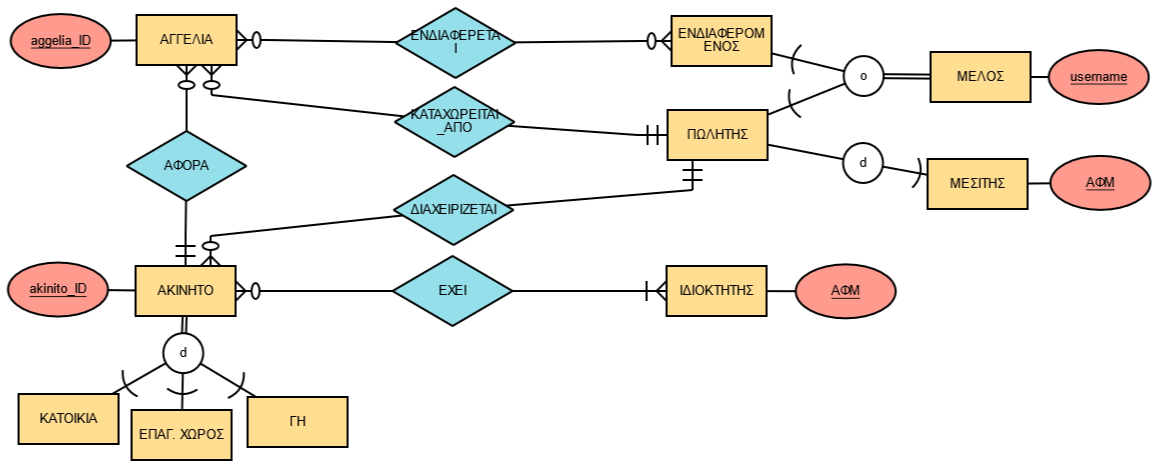
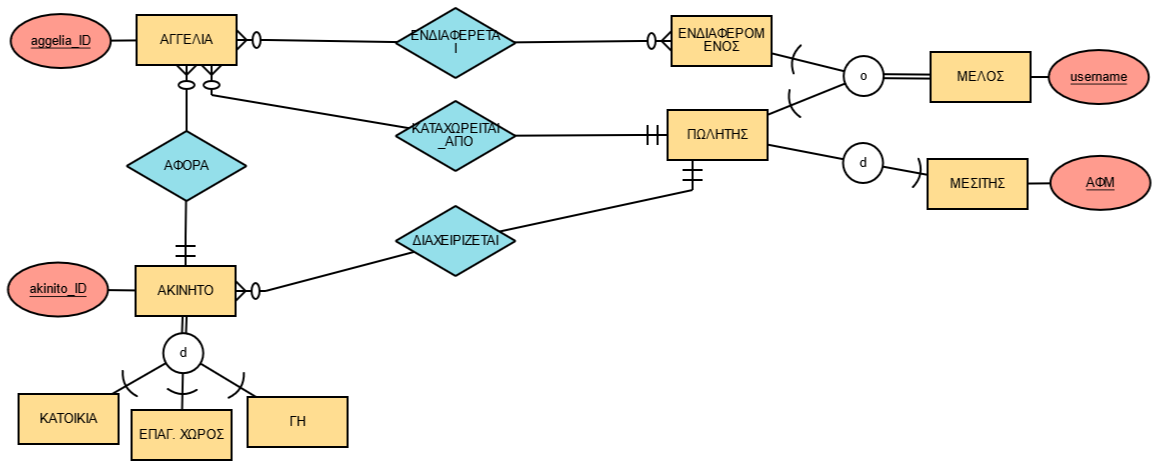
Yeet idiokthths

Changed region(s): [[0.1865, 0.1795, 0.7772, 0.7179], [0.1865, 0.4786, 0.2798, 0.5085], [0.1554, 0.5085, 0.1865, 0.5684]]

diff --git a/app/enter_data.py b/app/enter_data.py
@@ -1,8 +1,8 @@
 import csv
-import connect
+from source.connect import connect
 from hashlib import sha256
 
-con, cur = connect.connect()
+con, cur = connect()
 
 def enter_data_for(entity):
     data = open(f"data/{entity[0]}.csv")
@@ -21,7 +21,7 @@ def enter_data_for(entity):
 entities = [
     ("melos", 9),
     ("m_pwlhths",4),
-    ("akinhto", 7),
+    ("akinhto", 9),
     ("a_katoikia", 8),
     ("a_epaggelmatikos_xwros", 5),
     ("a_gh", 3),
